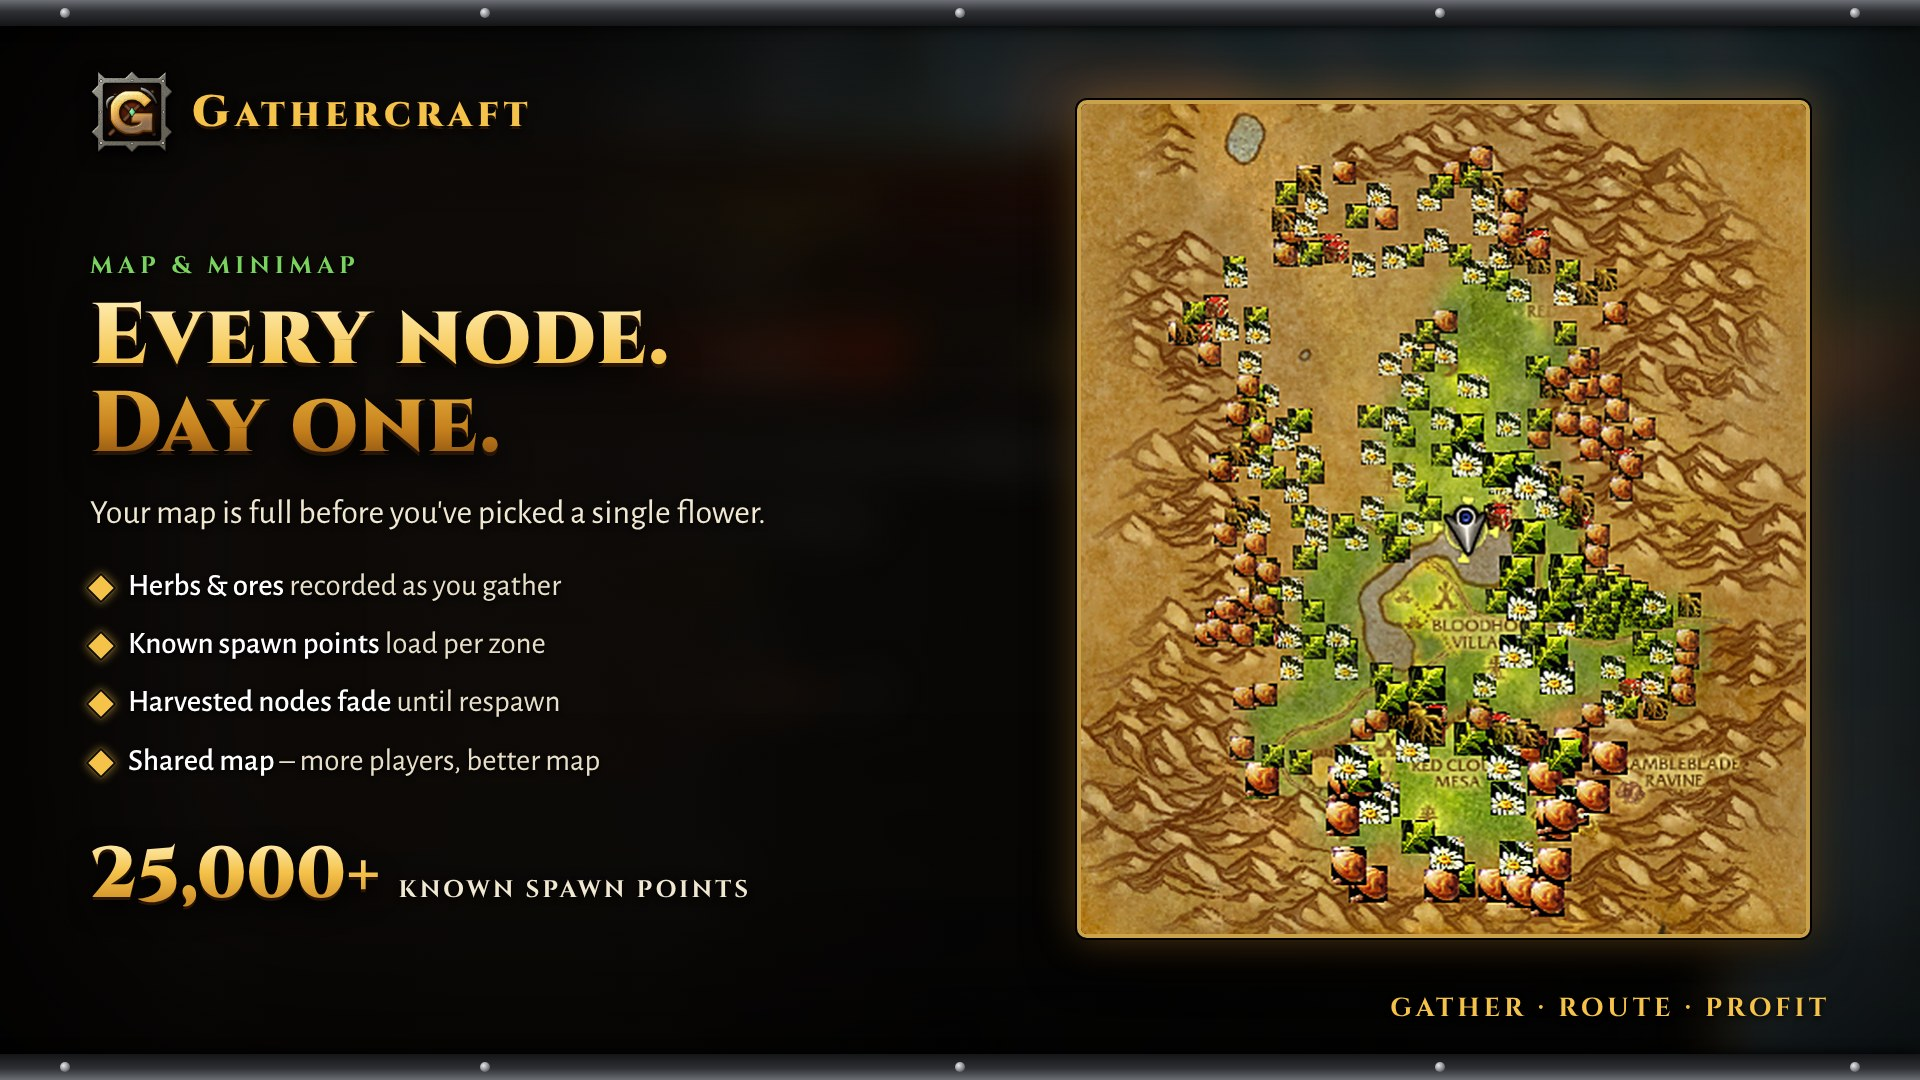
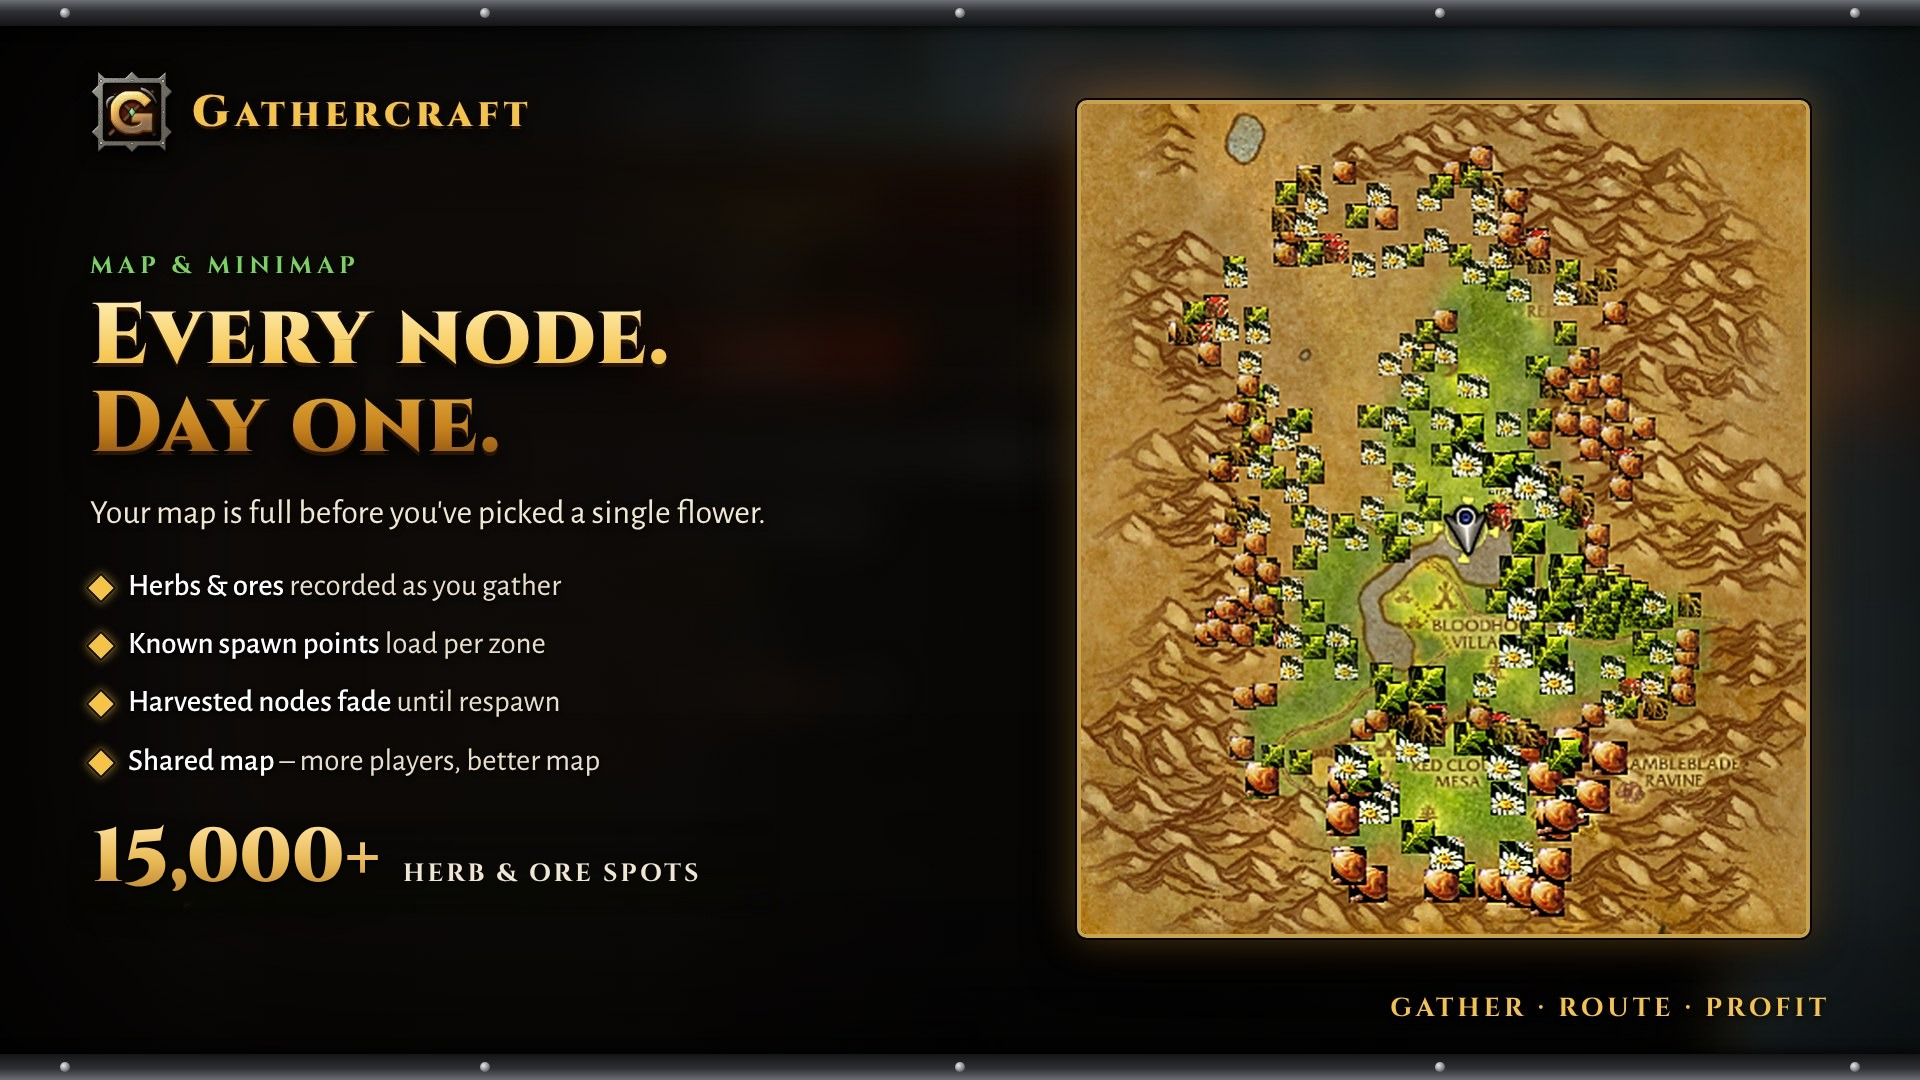
Docs: README roadmap and two images on the 0.1.14 state
The roadmap image now says "Live now · v0.1.14" with the current next-up
list, the map image says 15,000+ herb & ore spots instead of 25,000+.
The README roadmap matches the store description: live features of
0.1.14, the four launch-week points, and later flight paths, skinning
spots and a shared recipe book. Selling helper, waypoints to recipe
vendors and the profession planner (now the skill plan) are gone from
the list. Controls: Crafting names the skill plan, Options lists the
current pages, key bindings include the zones window and the herbs /
minerals switch.

Changed region(s): [[0.0312, 0.7639, 0.375, 0.8556]]

diff --git a/README.md b/README.md
@@ -96,14 +96,14 @@ Then visit the auction house once and press *Gathercraft Scan* – from now on e
 |---|---|
 | **Overview** | Your professions, what to gather in this zone, one-click farm runs, session stats |
 | **Farm Spots** | Best zones by gold per hour, nodes per hour and skill-ups |
-| **Crafting** | Profit of every recipe, per profession |
+| **Crafting** | Profit of every recipe, per profession – and the skill plan |
 | **Zones** | Pick zones and materials for your routes |
 | **Skills** | Which nodes gave you skill-ups so far |
-| **Options** | Map, arrow, route type, goal & line, sharing, language, RARE! alert, fishing, price alerts |
+| **Options** | Map & minimap, farm runs, leveling, sharing, rares & prices, general |
 
 For power users and macros: `/gcr run herb|ore|both` · `/gcr route` *(preview)* · `/gcr loadall` *(whole continent)* · `/gcr help` *(all commands)*
 
-**Key bindings:** Options › Keybindings › AddOns › Gathercraft *(Fish · Start/stop run · Skip node)*
+**Key bindings:** Options › Keybindings › AddOns › Gathercraft *(Fish · Start/stop run · Skip node · Zones window · Find Herbs / Find Minerals)*
 
 ## ❓ FAQ
 **"Does it play for me?"**
@@ -143,24 +143,28 @@ Gathercraft is **actively developed** – during the Forever launch weeks expect
 **✅ Live now**
 
 - Node recording, map & minimap pins, 16,000+ known spawn points
-- Live farm routes with the Gathercraft arrow and farm panel
+- **Learn spots from your minimap** – point at a herb or vein your tracking shows
+- Live farm routes with the Gathercraft arrow and farm panel – **Smart** or **Loop**
+- **Smart routes** – only nodes you can gather, by skill-ups or gold
+- **Pins in the trainer colour** – see which nodes still give skill-ups
 - Own auction house scan, prices in tooltips, price alerts, **gold per hour**
 - **Farm Spots** – best zones by gold per hour
-- **Crafting** – profit of 2,000+ recipes of all professions
+- **Crafting** – profit of 2,000+ recipes of all professions, and the **skill plan** to your target skill
+- **Where to learn every recipe** – trainer, vendor or drop
 - One-key fishing with its own panel, RARE! announcer, optional node sharing
 - 10 languages, works in every client language
-- **Where to learn every recipe** – trainer, vendor or drop
-- **Smart routes** – only nodes you can gather, by skill-ups or gold
 
 **🔨 Next up (launch weeks)**
 
-- **New Forever zones** – Zephras Isle, Darkspear Islands, Riverglades & co.
-- **Waypoints to recipe vendors** – one click and the arrow takes you there
-- **Selling helper** – list what you gathered at the right price in one click
+- **More spawn points for the new and reworked Forever zones** (Hyjal, Riverglades, Shen'dralas, Zephras Isle) as soon as they are known
+- **A short guided tour** on first start
+- **Better Loop routes** for mixed Herbs + Ores runs
+- **Fresh recipe data** for Forever
 
 **🔮 Later**
 
-- **Profession planner** – pick a target skill, get the material list, and Gathercraft routes you straight to it
+- **Flight paths** on long routes
+- **Skinning spots**
 - **Shared recipe book** – trainer visits of other players fill in yours
 
 *Got an idea? Tell us – the best ones end up on this list.*
